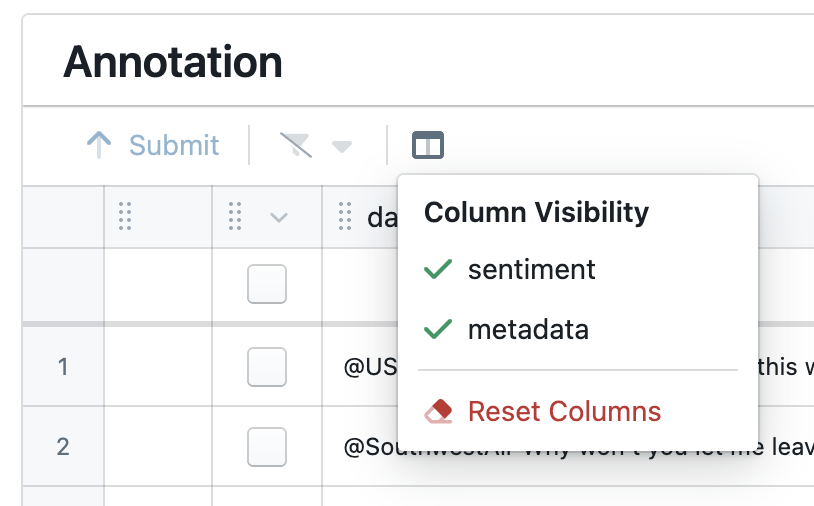
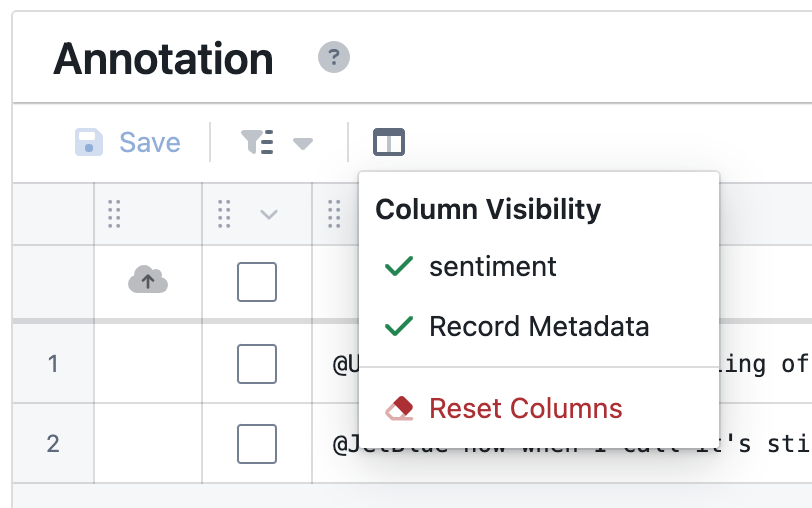
update docs

diff --git a/mkdocs/docs/quickstart.md b/mkdocs/docs/quickstart.md
@@ -1,79 +1,85 @@
 # Getting Started
-
-
-
 ## Installation
+1. Download [conda](https://conda.io/projects/conda/en/stable/user-guide/install/download.html)
+2. Create a conda environment
+      - Run `conda create -n <env_name> python=3.9`
+      - Run `conda activate <env_name>`
+3. Install **meganno-client** with **meganno-ui** (recommended for notebook users)
+   
+    > You can use either `SSH` or `HTTPS` to install this python package.
+    
+    > Add @vx.x.x tag after the github URL
 
-It is highly recommended to use a [virtual environment](https://docs.python.org/3/library/venv.html) or [conda environment](https://conda.io/projects/conda/en/latest/user-guide/tasks/manage-environments.html). 
+      - Run `pip install "meganno_client[ui] @ git+ssh://git@github.com/megagonlabs/meganno-client.git"`
+      - Run `pip install "meganno_client[ui] @ git+https://github.com/megagonlabs/meganno-client.git"`
+          - You may need to use [personal access token](https://docs.github.com/en/authentication/keeping-your-account-and-data-secure/creating-a-personal-access-token) instead of password<br/>
+    ---
+    To install without **meganno-ui**
+      
+      - Run `pip install git+ssh://git@github.com/megagonlabs/meganno-client.git`
+      - Run `pip install git+https://github.com/megagonlabs/meganno-client.git`
+          - You may need to use [personal access token](https://docs.github.com/en/authentication/keeping-your-account-and-data-secure/creating-a-personal-access-token) instead of password<br/>
+ 
+4. Set up OpenAI API Keys [using environment variables in place of your API key
+](https://help.openai.com/en/articles/5112595-best-practices-for-api-key-safety#h_a1ab3ba7b2)
 
-1. To create a new environment:
+## Self-hosted service
+- Download docker compose files at [meganno-service](https://github.com/megagonlabs/meganno-service)
+- Follow [setup instructions](https://github.com/megagonlabs/meganno-service?tab=readme-ov-file#set-up-services)
 
-    `conda create -n labeler python=3.9`
+## Authentication
+We have 2 ways to authenticate with the service:
 
-2. To activate the environment:
+1. Short-term 1 hour access with username and password sign in.
+    - Require re-authentication every hour.
+    - After executing `auth = Authentication(project="<project_name>")` (this only works for notebook and terminal running on local computer), you will be provided with a sign in interface via a new browser tab.
+        ![Sign-in](assets/images/signin.png){: style="width:300px"}
+   
+    - After signing in, you will be able to generate a long-term personal access token by running `auth.create_access_token(expiration_duration=7, note="testing")`
+        - `expiration_duration` is in days.
+        - To have <strong>non-expiring</strong> token, set `expiration_duration` to 0 (under the hood, it still expires after 100 years).
 
-    `conda activate labeler`
-
-3. To install the labeler-client lib (add `@vx.x.x` tag at the end of URL to specify the version):
-
-    `pip install git+https://github.com/rit-git/labeler-client.git`
-
-
-4. To register the new environment as a Jupyter kernel.
-
-    `python -m ipykernel install --user --name=labeler`
-
-5. To start using the client lib in a Jupyter notebook or Jupyter Lab page, in `Kernel` > `Change Kernel`  select the new labeler environment. 
-
-    `import labeler_client`
-
-## Authentication and Project Management [Megagon-only]
-### Authentication
-Megagon users can choose between two authentication methods to identify themselves and connect to a Megagon-hosted labeler service: `Google Auth` or `Tokens`.
-
-* Option 1: Authenticate through Megagon email account. Note that sessions expire after 1 hour.
+2. Long-term access with access token without signing in every time.
+    - If the notebook or terminal is running on the cloud, you need to use this method to authenticate with the service.
+    - With the save token, you can initialize the authentication class object by executing: 
     ```python
-    # To get your identifier for the labeler-service, run the following command to show the login UI.
-    from labeler_ui import Authentication
-    authentication = Authentication()
-    authentication.show()
-    ```
-    ![Google Auth](assets/images/auth.png)
-
-    After a successful login, the `authentication` object can be used to connect to the back-end service:
-    ```Python
-    from labeler_client import Service
-    demo = Service(project = 'demo', auth = authentication)
-    ```
-* Option 2: After the initial authentication, you can generate a long-term token in the "token" tab of the authentication widget.
-
-    ![token](assets/images/token.png)
-    Similarly, connect using tokens:
-
-    ```Python
-    from labeler_client import Service
-    demo = Service(project = 'demo', token = xxx)
+    auth = Authentication(project="<project_name>", token="<your_token>")
     ```
 
+### Roles
+MEGAnno supports 2 types of user roles: Admin and Contributor. Admin users are project owners deploying the services; they have full access to the project such as importing data or updating schemas. Admin users can invite contributors by sharing invitation code(s) with them. Contributors can only access their own annotation namespace and cannot modify the project.
 
-### Managing Projects
-![Project Management](assets/images/project_management.png)
+To invite contributors, follow the instructions below:
+
+1. Initialize Admin class object:
 ```python
-# To bring up the project panel, run the following command to show the interface.
-from labeler_client import Project
-Project(auth = authentication).show()
+from labeler_client import Admin
+token = "..."
+auth = Authentication(project="<project_name>", token=token)
 
-# similarly, use token:
-Project(token = xxx).show()
+admin = Admin(project="eacl_demo", auth=auth)
+# OR
+admin = Admin(project="eacl_demo", token=token)
 ```
-
-
-## Authentication [public]
-Only token access is available for the public now. Please reach out to the admin to get a valid token.
-
+2. Genereate invitation code
+    - invitation code has 7-day expiration duration
+```python
+admin.create_invitation(single_use=True, code="<invitation_code>", role_code="contributor")
+```
+3. To renew or revoke an existing invitation code:
+    - after renewing, the expiration date is extended by another 7 days.
+```python
+admin.get_invitations()
+admin.renew_invitation(id="<invitation_code_id>")
+admin.revoke_invitation(id="<invitation_code_id>")
+```
+4. New users with valid invitation code can sign up by installing the client library and follow the instructions below:
+    - After executing `auth = Authentication(project="<project_name>")`, a new browser tab will present itself.
+    - Clicking on "Sign up" at the bottom of the dialog, and you will be taken to the sign up page.
+    ![Sign-up](assets/images/signup.png){: style="width:300px"}
 
 ## Basic Usages
-Please also refer to this [notebook](https://github.com/rit-git/labeler-client/blob/main/Examples/Example%201%20-%20Basic%20pipeline.ipynb) for a running example of the basic pipeline of using labeler in a notebook.
+Please also refer to this [notebook](https://github.com/megagonlabs/meganno-client/blob/main/Examples/Example%201%20-%20Basic%20pipeline.ipynb) for a running example of the basic pipeline of using labeler in a notebook.
 
 
 ### Setting Schema
@@ -137,10 +143,6 @@ s1.show()
 <br/>
 *3. To reset column ordering and visibility, click on "Reset columns" button.*
 </span>
-
-#### Editing Modes
-<img src="../assets/images/editing_modes.png" alt="Editing Modes" width="500">
-<br/><span style="color: gray;">*To toggle editing mode, click on the mode button, then toggle bewteen Annotating or Reconciling mode.*</span>
 
 #### Metadata Focus-view
 <img src="../assets/images/metadata_focusview.png" alt="Metadata Focus-view" width="600">

diff --git a/mkdocs/docs/index.md b/mkdocs/docs/index.md
@@ -1,20 +1,31 @@
-# Welcome to Labeler documentation
-## Introduction
-Data labeling is a key part of the machine learning (ML) life cycle. Relevant and high-quality labels can significantly improve the quality of models. However, labeling can be expensive and time-consuming, which means there is an opportunity for novel tools to reduce cost and burden. Labeler (also named [MEGAnno](https://megagon.ai/meganno_jupyter)) is our flexible, exploratory, efficient, and seamless labeling framework for NLP researchers and practitioners.
+# Welcome to MEGAnno documentation
+## What is MEGAnno?
+MEGAnno is a human-LLM collaborative annotation framework. For cost-efficient and high-quality annotation, we adopt the LLM annotation <strong>--></strong> Human verification workflow where LLM agents label data first and then humans verify a subset of potentially problematic LLM labels.
+![Figure 1. Our human-LLM collaborative workflow.](assets/images/meganno_site_fig1.png)
+<br/><span style="color: gray;">*Figure 1. Our human-LLM collaborative workflow.*</span>
 
-* Labeler is a framework consisting of customizable UI and programmatic interfaces, plus backend storage and management for your data, annotations, and auxiliary information.
-* Labeler is with you throughout the entire life cycle of your annotation project, from early-stage exploration to analysis, project evolution, and large-scale deployment, meeting you where your everyday data science work takes place.
-* Labeler provides a useful set of out-of-the-box “power tools” which give you extra leverage and reach. The tools could be easily extended to fit the special needs of projects.
+Our features include:
 
-Labeler provides 1) a client library with both interactive in-notebook UI widgets and Python programmatic interfaces, and 2) a back-end service that stores and manages all needed information with language-agnostic REST APIs. This is the documentatin for the client library, for instructions of setting up a service, please refer to the [service documentations](https://github.com/rit-git/labeler-service).
+* Effective LLM agent and annotation management
+* Convenient and robust LLM annotation
+* Exploration and verification of LLM labels by humans
+* Seamless annotation experience within Jupyter notebooks
 
-## Interactive Jupyter Widgets
-Labeler’s annotation widget features 1) a table view to facilitate exploratory and batch labeling and 2) a more zoomed-in single view with more space for each data example, as in most existing labeling tools.
+## System Overview
+MEGAnno provides two key components: (1) a Python client library featuring interactive widgets and (2) a back-end service consisting of web API and database servers. To use our system, a user can interact with a Jupyter Notebook that has the MEGAnno client installed. Through programmatic interfaces and UI widgets, the client communicates with the service.
+![Figure 2. Overview of MEGAnno+ system.](assets/images/meganno_site_fig2.png)
+<br/><span style="color: gray;">*Figure 2. Overview of MEGAnno+ system.*</span>
 
-![Labeler's table view](assets/images/table.gif)
+## Demo
+For Megagon hosted demo, please head to [https://meganno.github.io/](https://meganno.github.io/).
+<video controls width='75%'>
+    <source src="https://meganno.s3.amazonaws.com/eacl-2024-demo.mp4" type="video/mp4">
+</video>
+
+![Labeler's table view](assets/images/table.png)
 <br/><span style="color: gray;">*Table view of the annotation widget. Data examples are organized in a table for better exploration and comparison. Users can also search over, sort or filter on data and annotations.*</span>
 
-![Labeler's single view](assets/images/single.gif)
+![Labeler's single view](assets/images/single.png)
 <br/><span style="color: gray;">*Single view of the annotation widget showing one data example at a time. With more space, the single view is more suitable for span-level tasks like extraction.*</span>
 
 Please see the [Getting Started](quickstart.md) page for setup instructions and the [Advanced Features](advanced.md) page for more cool features we provide.

diff --git a/README.md b/README.md
@@ -24,9 +24,9 @@ Documentation for [MEGAnno concepts](https://meganno.megagon.info)
         - You may need to use [personal access token](https://docs.github.com/en/authentication/keeping-your-account-and-data-secure/creating-a-personal-access-token) instead of password<br/>
 4. Set up OpenAI API Keys [using environment variables in place of your API key
 ](https://help.openai.com/en/articles/5112595-best-practices-for-api-key-safety#h_a1ab3ba7b2)
-## **Self-hosted service (optional)**
+## **Self-hosted service**
 - Download docker compose files at [meganno-service](https://github.com/megagonlabs/meganno-service)
-- Follow [setup instructions](https://github.com/megagonlabs/meganno-service)
+- Follow [setup instructions](https://github.com/megagonlabs/meganno-service?tab=readme-ov-file#set-up-services)
 ## **Run Jupyter Notebook**
 Configure your browser to allow pop-ups; we recommend using Google Chrome. 
 - Install jupyter server `pip install jupyter`

diff --git a/mkdocs/docs/advanced.md b/mkdocs/docs/advanced.md
@@ -74,7 +74,7 @@ s1= demo.search(keyword='',
               meta_names=['hashtag'])
 s1.show()
 ```
-![hashtag as context](assets/images/meta_hashtag.png)
+![hashtag as context](assets/images/table.png)
 
 ## Advanced Subset Generation
 In addition to exact keyword matches, Labeler also provides more advanced approaches of generating subsets.
